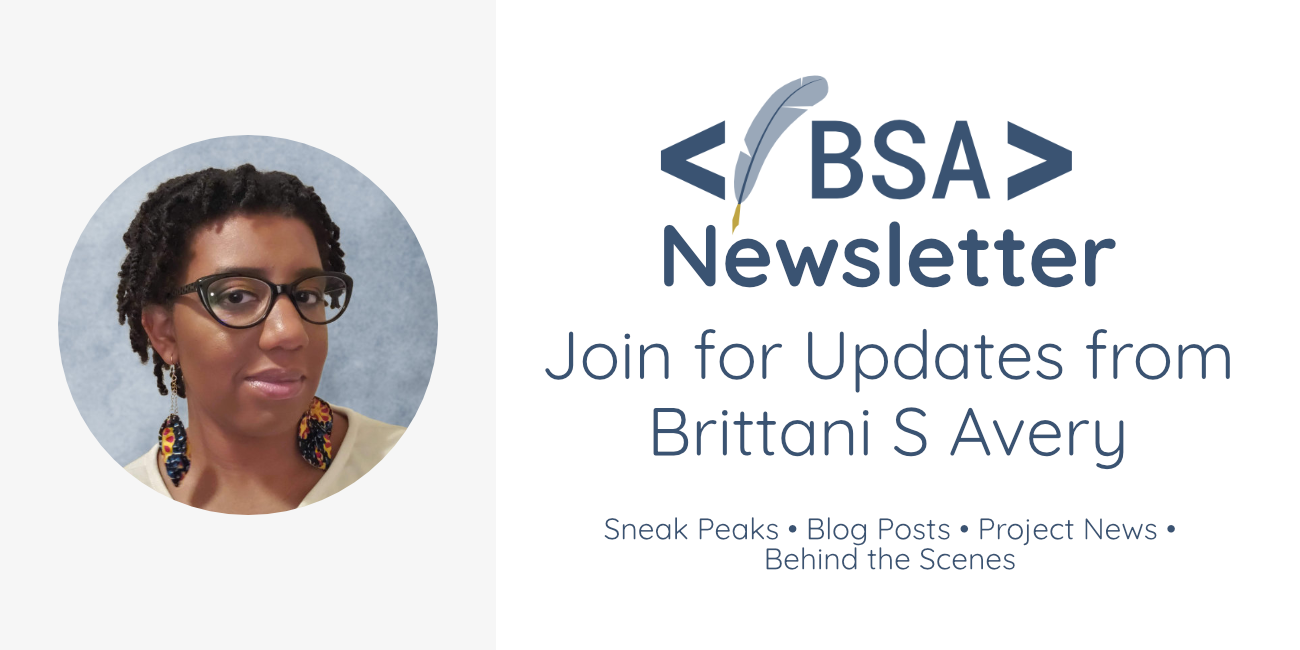
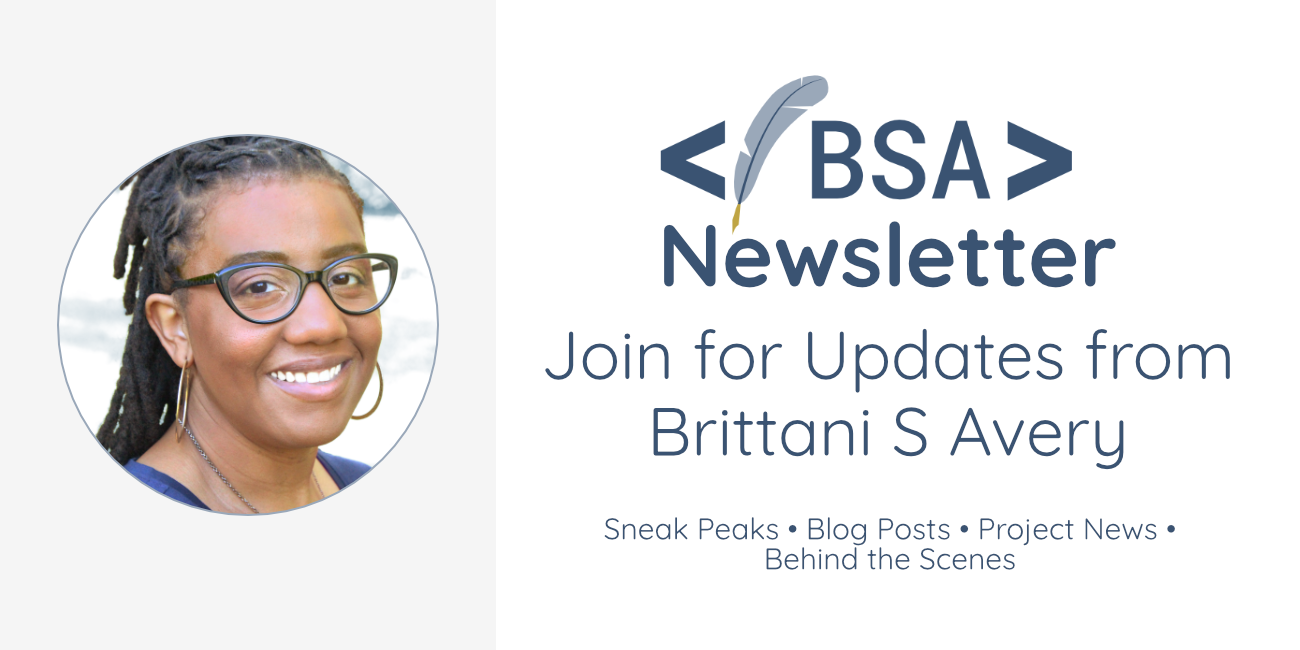
Update profile pic and resume with Turnberry

Changed region(s): [[0.0308, 0.1846, 0.3385, 0.8]]

diff --git a/content/resume.md b/content/resume.md
@@ -23,8 +23,13 @@ Javascript :separator: Typescript :separator: React :separator: Redux/Context AP
 
 ### Senior Software Engineer
 
-SimpleHealth | Remote  
+Turnberry Solutions | Remote  
 2022–Present
+
+### Senior Software Engineer
+
+SimpleHealth | Remote  
+2022
 Integrated the complexity of insurance-based payments for SimpleHealth, allowing more options for women and people with ovaries to get birth control easily.
 
 - Developed a messaging system between the SimpleHealth app and the pharmacy API to simplify the workflow for pharmacists
@@ -134,7 +139,3 @@ Originally hired as an intern and quickly extended a full-time position before g
 ### Bachelors of Science in Computer Science
 
 University of Nebraska at Omaha | Omaha, NE
-
-- Honor Graduate (Cum Laude)
-- Concentration: Internet Technologies
-- Tools: Java, C, PHP, Perl, Javascript, HTML, MySQL, UNIX
